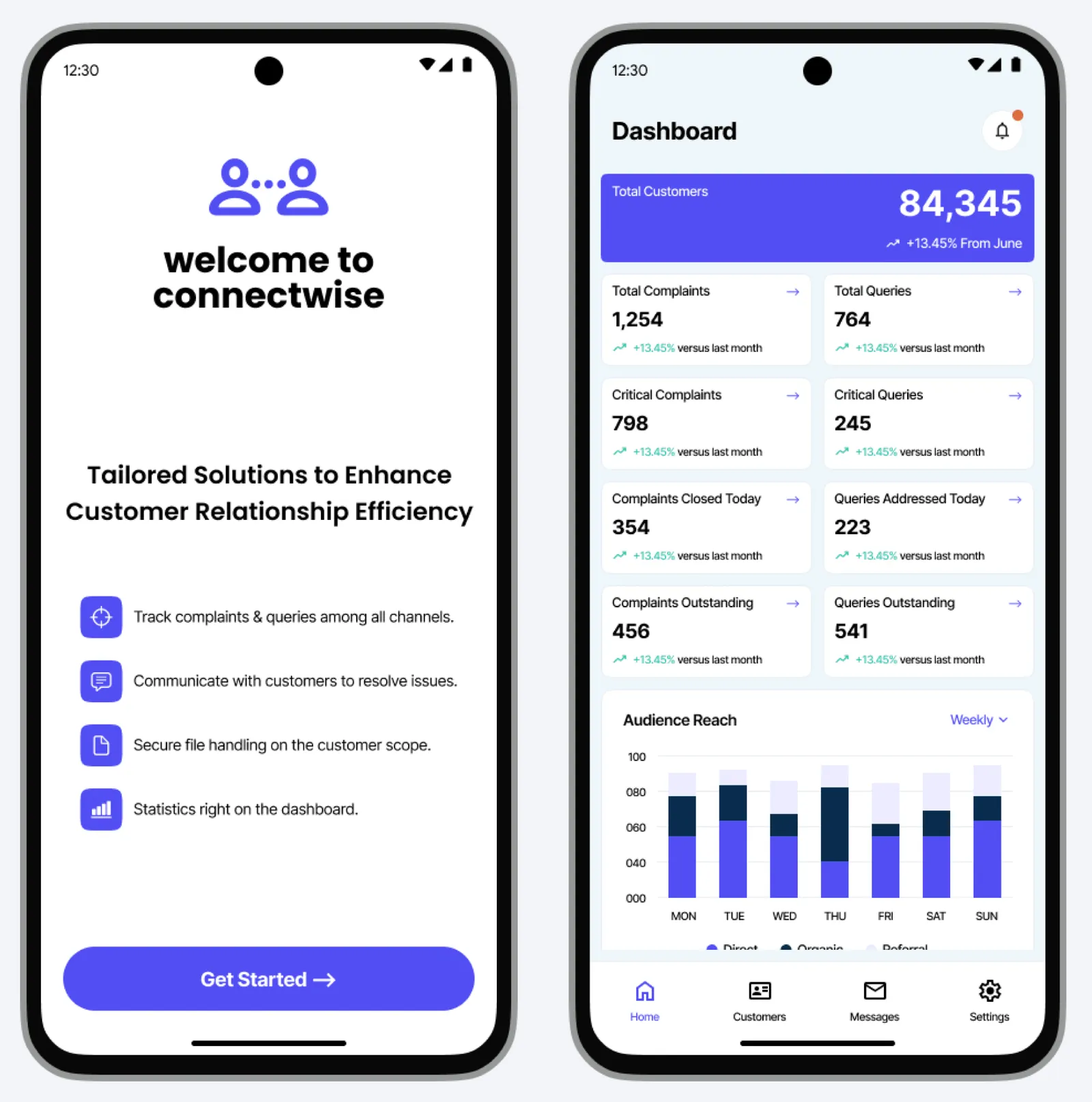
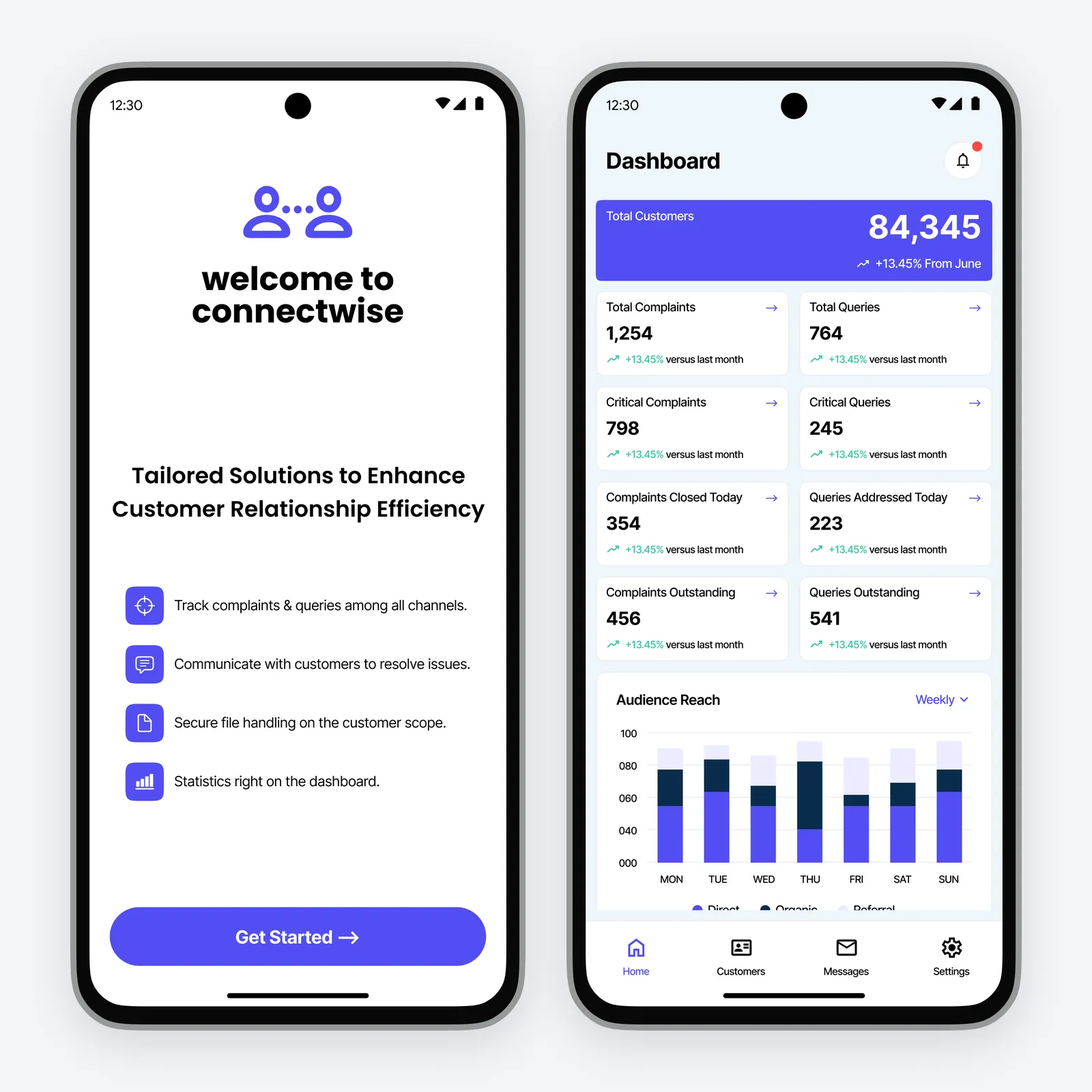
Use real Figma assets: CRM screens, PULSE case study, event designs
- CRM: clean screen exports replace board crops; copy rewritten from
  the file's brief, presentation and team details; chat, attachments
  and ticket history added
- New Blood Donation App (PULSE) case study built from its screens
  and presentation, with hero, board, share card and structure view
- Events: certificate and key visual from the portal file; flow and
  interactions updated from the event page design
- Learning: interactions updated from the components in the file

Claude-Session: https://claude.ai/code/session_011amfHfjPBXfEuBkbkXVmFM

diff --git a/src/data/case-studies/customer-relationship-management.ts b/src/data/case-studies/customer-relationship-management.ts
@@ -1,83 +1,86 @@
 import { board, cap, prototype, research, structure, wireframes, card, challenge, exhibit, flow, grid, highlights, highlightsSection, img, item, overview, palette, section, text, tree } from '../build';
 import type { CaseStudy } from '../types';
 
+// Sources: the project's Figma file (Readme, High Fidelity, Presentation pages).
 export const customerRelationshipManagement: CaseStudy = {
-  cover: img('crm-hero', 'Hero mockup: connectwise CRM app screens on a light canvas'),
+  cover: img('crm-hero', 'Hero mockup: connectwise CRM app screens'),
   sections: [
     overview({
-      role: 'Independent project: user flows, interaction design, visual design',
-      timeline: 'Passion project, high-fidelity Android prototype',
+      role: 'UI/UX design: wireframes, high-fidelity screens, asset library and a complete prototype',
+      team: ['Team Wireshark', 'Sai Rohit', 'Aman Agrawal', 'Shahid Ahamed', 'Kanishk Kumar'],
+      timeline: 'Team project built to a “Digital Box” brief set by industry mentors',
       overview: [
-        'connectwise is a mobile CRM that helps support teams track complaints and queries across channels, talk to customers and keep their files in one place.',
-        'I designed the Android app end to end: onboarding, a statistics dashboard, customer profiles, messaging and ticket history.',
-        'Every screen is built to help an agent decide what to handle next.',
+        'connectwise is a mobile CRM built around a Digital Box: one place that stores every customer communication, supports two-way conversations about complaints and queries, and lets colleagues upload and download documents securely for each customer.',
+        'With Team Wireshark, I designed the app end to end, from wireframes and high-fidelity screens to the asset library and a complete prototype.',
+        'Every screen helps a colleague see a customer’s full history and decide what to handle next.',
       ],
     }),
     highlightsSection(
-      highlights('Customer relationships on the go: track, communicate and resolve from one app.', {
-        exhibits: [prototype('crm'), { media: img('crm-row', 'Onboarding, dashboard, customer and messages screens'), caption: cap('0.1', 'Screens', 'Onboarding, dashboard, customer and messages') }],
+      highlights('Customer relationships on the go: insights, profiles, chat and secure files in one app.', {
+        exhibits: [prototype('crm'), { media: img('crm-row', 'Welcome, dashboard, customer profile and messages screens'), caption: cap('0.1', 'Screens', 'Welcome, dashboard, customer and messages') }],
       }),
     ),
-    section('context', 'Context', 'Support teams live in many inboxes.', [
-      text('One customer, many channels.', [
-        'Complaints and queries arrive by SMS, mail and chat apps. Without one view, agents repeat questions and critical issues wait in the queue.',
+    section('context', 'Context', 'Many channels, many logs.', [
+      text('What the brief asked for.', [
+        'Customers reach out through SMS, in-app notifications and email, depending on the products they hold, and each channel stores its logs differently.',
+        'The brief called for a Digital Box that keeps every document, communication, complaint and resolution together, with an audit log for each customer.',
       ]),
       tree(
         'connectwise',
         [
           { label: 'Home', items: ['Dashboard', 'Audience reach'] },
           { label: 'Customers', items: ['Customer list', 'Customer profile', 'Product transactions'] },
-          { label: 'Messages', items: ['Highly critical', 'Unresolved', 'Closed'] },
+          { label: 'Messages', items: ['Highly critical', 'Unresolved', 'Closed', 'Chat'] },
           { label: 'Records', items: ['Attachments', 'Ticket history', 'Customer settings'] },
         ],
         cap('1.0', 'Diagram', 'Information architecture'),
       ),
       research('crm'),
     ]),
-    section('the-problem', 'The Problem', 'Critical issues looked like routine ones.', [
+    section('the-problem', 'The Problem', 'Scattered data, slower support.', [
       text(
-        'Where support breaks down.',
-        ['Agents were busy, but not always busy with the right things.'],
+        'Problem statement.',
+        ['Current CRM systems lack centralised data access and streamlined communication across diverse products and channels. The result is inefficiency that ultimately hurts customer satisfaction.'],
         {
           list: [
-            item('database', 'Complaints arrive through many channels and get lost.'),
-            item('users', 'A customer’s history is not visible in one place.'),
-            item('target', 'Critical issues look the same as routine ones.'),
-            item('key', 'Files are shared over channels that are not secure.'),
+            item('database', 'Communications are spread across channels that each keep their own logs.'),
+            item('users', 'A customer’s documents, queries and complaints are not visible in one place.'),
+            item('target', 'Urgent and negative complaints are hard to spot and prioritise.'),
+            item('key', 'Documents need secure upload and download at the customer level.'),
           ],
         },
       ),
-      challenge('Help support teams see what matters most and resolve it without switching tools.'),
+      challenge('Give colleagues one view of every customer, so complaints are handled faster and communication stays simple across products.'),
       text('North Star design principles:', [], {
         cards: [
-          card('Severity first', 'Critical items rise to the top.', 'target'),
-          card('One customer, one view', 'Profile, messages, files and transactions together.', 'users'),
-          card('Numbers that drive action', 'Every metric links to work that can be done.', 'lightbulb'),
+          card('Insights at a glance', 'Key metrics on the dashboard, before any digging.', 'target'),
+          card('One customer, one view', 'Profile, documents, messages and transactions together.', 'users'),
+          card('Secure by default', 'Files stay within each customer’s scope.', 'key'),
         ],
       }),
     ]),
     section('user-flow', 'User Flow', 'From complaint to closure.', [
-      text('The resolution loop.', ['Every ticket follows the same path, so agents always know the next step.']),
-      flow(['Complaint arrives', 'Triage by severity', 'Open customer profile', 'Message and share files', 'Resolve and close'], cap('3.0', 'Diagram', 'Resolution loop')),
+      text('The resolution loop.', ['Every ticket follows the same path, so colleagues always know the next step.']),
+      flow(['Complaint arrives', 'Triage by severity', 'Open customer profile', 'Chat and share files', 'Resolve and close'], cap('3.0', 'Diagram', 'Resolution loop')),
       wireframes('crm'),
     ]),
     section('layout', 'Layout', 'A dashboard that shows the queue, not just totals.', [
       text('Complaints and queries, side by side.', [
-        'The dashboard pairs complaints and queries: total, critical, closed or addressed today, and outstanding, each with change versus last month, followed by weekly audience reach.',
+        'The dashboard pairs complaints and queries: total, critical, closed or addressed today, and outstanding, each compared with last month, followed by weekly audience reach.',
       ]),
-      structure('crm', 'Onboarding and dashboard screens', 'Onboarding and dashboard: structure and final. Drag to compare.'),
+      structure('crm', 'Welcome and dashboard screens', 'Welcome and dashboard: structure and final. Drag to compare.'),
     ]),
-    section('interactions', 'Interactions', 'Triage with a tap.', [
-      text('Filters and tags.', [
-        'Messages filter by Highly Critical, Unresolved, Closed or All, and each conversation shows its channel and type, such as SMS, Mail, Chat app, Query or Complaint.',
+    section('interactions', 'Interactions', 'Everything about a customer, one tap away.', [
+      text('Profiles and triage.', [
+        'Customer profiles bring together personal details, media, documents and links, queries and complaints, and product transactions.',
+        'Messages filter by Highly Critical, Unresolved, Closed or All, and each conversation shows its channel and type, such as SMS, Mail, Query or Complaint.',
       ]),
       exhibit(img('crm-b', 'Customer profile and messages screens'), cap('5.0', 'Screens', 'Customer profile and messages')),
-      grid([
-        card('Severity filters', 'Jump straight to highly critical items.', 'target'),
-        card('Channel tags', 'See where each message came from.', 'database'),
-        card('Customer profile', 'Contact details, files and transactions together.', 'users'),
-        card('Secure files', 'Documents stay within the customer’s scope.', 'key'),
+      text('Chat, files and history.', [
+        'Colleagues can talk one-on-one with a customer through integrated chat, and manage previous queries, tickets and files associated with each customer.',
       ]),
+      exhibit(img('crm-c', 'Customer list and chat screens'), cap('5.1', 'Screens', 'Customers and integrated chat')),
+      exhibit(img('crm-d', 'Attachments and ticket history screens'), cap('5.2', 'Screens', 'Attachments and ticket history')),
     ]),
     section('visual-design', 'Visual Design', 'Clear, calm and indigo.', [
       text('Colour for focus.', [
@@ -96,14 +99,23 @@ export const customerRelationshipManagement: CaseStudy = {
     section('final-designs', 'Final Designs', 'The complete screen set.', [
       text('Built for the whole queue.', ['The final set covers onboarding, dashboard, customers, profiles, conversations, attachments and ticket history.']),
       exhibit(board('crm', 'Full connectwise screen set'), cap('7.0', 'Animated view', 'Full screen set')),
+      text('Proposed tech stack:', [], {
+        cards: [
+          card('ETL', 'Data integration across customer channels.', 'database'),
+          card('Firebase', 'Data storage.', 'check-circle'),
+          card('Open-source encryption', 'Secure handling of customer documents.', 'key'),
+          card('QlikView ML', 'Analytics on complaints and queries.', 'lightbulb'),
+          card('Flutter', 'Wrapping the app for mobile.', 'sparkle'),
+        ],
+      }),
     ]),
     section('retrospective', 'Retrospective', 'Designing for busy people.', [
       text('Looking back.', [
-        'Support agents work under pressure. The best decisions in connectwise were the ones that removed a decision: severity filters, clear tags and one profile for each customer.',
+        'Support teams work under pressure. The strongest decisions in connectwise were the ones that removed a decision: severity filters, clear channel tags and one profile for each customer.',
       ]),
       text('Project Takeaways:', [], {
         cards: [
-          card('Prioritise for the user', 'Severity filters do the sorting for agents.', 'target'),
+          card('Start from the brief', 'A clear problem statement kept the scope focused.', 'check-circle'),
           card('Context saves time', 'A full profile avoids repeated questions.', 'users'),
           card('Mobile can be dense', 'Clear grouping makes data-heavy screens usable.', 'sparkle'),
           card('Trust needs security', 'Secure file handling is part of the experience.', 'key'),

diff --git a/src/data/case-studies/blood-donation-app.ts b/src/data/case-studies/blood-donation-app.ts
@@ -1,0 +1,129 @@
+import { board, cap, prototype, research, structure, wireframes, card, challenge, exhibit, flow, grid, highlights, highlightsSection, img, item, overview, palette, section, text, tree } from '../build';
+import type { CaseStudy } from '../types';
+
+// Sources: the project's Figma files (High Fidelity and Presentation pages).
+export const bloodDonationApp: CaseStudy = {
+  cover: img('pulse-hero', 'Hero mockup: PULSE blood donation app screens'),
+  sections: [
+    overview({
+      role: 'UI/UX design: user flows, screening experience, high-fidelity screens',
+      team: ['Sai Rohit', 'Aman Agrawal', 'Faculty guide: Prof. G. Manoj Kumar'],
+      timeline: 'Academic project at SRM Institute of Science and Technology',
+      overview: [
+        'PULSE is a mobile app that connects blood donors with recipients, tackling blood shortages and logistical hurdles by streamlining the process, protecting donor privacy and raising awareness.',
+        'I designed the experience from onboarding and donor screening to placing a blood request, finding nearby blood banks and tracking requests.',
+        'The aim: timely access to life-saving blood, with every step designed for moments when time matters.',
+      ],
+    }),
+    highlightsSection(
+      highlights('Your lifeline to efficient blood donation: request, find and donate from one app.', {
+        exhibits: [prototype('pulse'), { media: img('pulse-row', 'Splash, home, request and blood bank screens'), caption: cap('0.1', 'Screens', 'Splash, home, request and nearby blood banks') }],
+      }),
+    ),
+    section('context', 'Context', 'When blood is needed, every minute counts.', [
+      text('Bridging donors and recipients.', [
+        'Finding a matching donor or an open blood bank usually means phone calls and word of mouth. PULSE brings donors, recipients, blood banks and campaigns into one place.',
+      ]),
+      tree(
+        'PULSE',
+        [
+          { label: 'Onboarding', items: ['Create account', 'Verify', 'Screening questions'] },
+          { label: 'Donate', items: ['Find blood banks', 'Open requests', 'Campaigns', 'Guide'] },
+          { label: 'Request', items: ['Blood group and units', 'Location', 'Schedule or request now'] },
+          { label: 'Logs and profile', items: ['Previous requests', 'Screening profile'] },
+        ],
+        cap('1.0', 'Diagram', 'Information architecture'),
+      ),
+      research('pulse'),
+    ]),
+    section('the-problem', 'The Problem', 'Shortages, logistics and trust.', [
+      text(
+        'Problem statement.',
+        ['Blood shortages are made worse by slow coordination. Recipients need a match quickly, donors need to know whether they are eligible, and both need to trust that their details are safe.'],
+        {
+          list: [
+            item('clock', 'Urgent requests rely on calls and messages that reach too few people.'),
+            item('target', 'Donors rarely know which blood banks or drives are nearby and open.'),
+            item('lightbulb', 'Eligibility rules are unclear, so willing donors hesitate.'),
+            item('key', 'Personal and medical details must stay private.'),
+          ],
+        },
+      ),
+      challenge('Connect donors and recipients securely, and make every request fast enough for an emergency.'),
+      text('North Star design principles:', [], {
+        cards: [
+          card('Emergency first', 'An emergency path is available from the very first screen.', 'clock'),
+          card('Clear eligibility', 'Short screening questions and plain-language answers.', 'check-circle'),
+          card('Private by design', 'Donors and recipients connect securely.', 'key'),
+        ],
+      }),
+    ]),
+    section('user-flow', 'User Flow', 'From request to response.', [
+      text('Placing a request.', [
+        'A recipient picks the blood group and units needed, confirms the location, and either schedules a request with patient and venue details or requests immediately. Donors are notified, and the recipient hears back when someone accepts.',
+      ]),
+      flow(['Blood group and units', 'Confirm location', 'Schedule or request now', 'Patient and venue details', 'Request placed'], cap('3.0', 'Diagram', 'Request flow')),
+      text('Becoming a donor.', ['New donors create an account, verify it, and answer three short screening questions that build their screening profile.']),
+      flow(['Create account', 'Verify', 'Screening questions', 'Screening profile'], cap('3.1', 'Diagram', 'Donor onboarding')),
+      exhibit(img('pulse-d', 'Create account, details and verification screens'), cap('3.2', 'Screens', 'Onboarding')),
+      wireframes('pulse'),
+    ]),
+    section('layout', 'Layout', 'A home screen built around six actions.', [
+      text('Everything a donor needs, in one grid.', [
+        'Home greets the donor and offers six clear actions: find blood banks, open requests, eligibility, how much to donate, campaigns and a guide. Request, Logs and Profile sit in the tab bar.',
+      ]),
+      structure('pulse', 'Home and request screens', 'Home and request: structure and final. Drag to compare.'),
+    ]),
+    section('interactions', 'Interactions', 'Reassurance at every step.', [
+      text('Confirmation and guidance.', [
+        'After a request, a clear confirmation explains what happens next and links to previous requests and nearby clinics. Eligibility answers are written in plain language, based on the donor’s screening results.',
+      ]),
+      exhibit(img('pulse-b', 'Schedule request and request placed screens'), cap('5.0', 'Screens', 'Schedule a request and confirmation')),
+      exhibit(img('pulse-c', 'Eligibility information and donor list screens'), cap('5.1', 'Screens', 'Eligibility and donors nearby')),
+      grid([
+        card('Nearby blood banks', 'Centres listed with distance and opening status.', 'target'),
+        card('Two ways to request', 'Schedule ahead or request immediately.', 'clock'),
+        card('Urgent notifications', 'Donors hear about urgent needs in their area.', 'lightbulb'),
+        card('Screening profile', 'Eligibility stays up to date on the profile.', 'check-circle'),
+      ]),
+    ]),
+    section('visual-design', 'Visual Design', 'One colour, one purpose.', [
+      text('Red, used with care.', [
+        'A bold red carries the brand and every primary action, set against white surfaces and soft pink fields so forms stay calm and readable.',
+      ]),
+      palette(
+        [
+          { name: 'Pulse red', hex: '#F52646' },
+          { name: 'Soft red', hex: '#F7516B' },
+          { name: 'Surface', hex: '#FFFFFF' },
+          { name: 'Ink', hex: '#000000' },
+        ],
+        cap('6.0', 'Palette', 'Colours sampled from the final screens'),
+      ),
+    ]),
+    section('final-designs', 'Final Designs', 'The complete screen set.', [
+      text('From splash to request.', ['The final set covers the splash screen, onboarding, screening, home, requests, confirmation, blood banks and donors.']),
+      exhibit(board('pulse', 'Full PULSE screen set'), cap('7.0', 'Animated view', 'Full screen set')),
+      text('Proposed tech stack:', [], {
+        cards: [
+          card('ETL', 'Data integration.', 'database'),
+          card('Firebase', 'Data storage.', 'check-circle'),
+          card('Flutter', 'Wrapping the app for mobile.', 'sparkle'),
+        ],
+      }),
+    ]),
+    section('retrospective', 'Retrospective', 'Designing for urgent moments.', [
+      text('Looking back.', [
+        'PULSE taught me to design for people under stress: fewer choices, clearer words and constant reassurance about what happens next.',
+      ]),
+      text('Project Takeaways:', [], {
+        cards: [
+          card('Urgency shapes flow', 'An immediate path matters as much as a scheduled one.', 'clock'),
+          card('Explain eligibility', 'Plain-language answers turn hesitation into action.', 'lightbulb'),
+          card('Reassure after action', 'Confirmations should say what happens next.', 'check-circle'),
+          card('Privacy builds trust', 'Secure connections encourage people to take part.', 'key'),
+        ],
+      }),
+    ]),
+  ],
+};

diff --git a/src/data/case-studies/events-booking-portal.ts b/src/data/case-studies/events-booking-portal.ts
@@ -57,8 +57,10 @@ export const eventsBookingPortal: CaseStudy = {
       }),
     ]),
     section('user-flow', 'User Flow', 'From browsing to booked.', [
-      text('Short and predictable.', ['A visitor lands on the chapter page, narrows events with filters and registers directly from the event card.']),
-      flow(['Chapter page', 'Filter by date, mode, category', 'Event card', 'Register', 'Dashboard'], cap('3.0', 'Diagram', 'Booking flow')),
+      text('Short and predictable.', [
+        'A visitor signs in with Google, narrows events with filters and registers from the event card or the event page. After the event, attendees receive a certificate they can download and share.',
+      ]),
+      flow(['Sign in with Google', 'Filter events', 'Event page', 'Register', 'Certificate'], cap('3.0', 'Diagram', 'Booking flow')),
       wireframes('events'),
     ]),
     section('layout', 'Layout', 'Filters on the left, events on the right.', [
@@ -68,12 +70,16 @@ export const eventsBookingPortal: CaseStudy = {
       structure('events', 'Filters and upcoming event cards', 'Filters and upcoming events: structure and final. Drag to compare.', 'b'),
     ]),
     section('interactions', 'Interactions', 'Details that save a click.', [
-      text('Built for quick decisions.', ['Tags and toggles answer the common questions before a visitor opens an event.']),
+      text('Everything about an event, on one page.', [
+        'Each event page carries the description, topic tags, when and where (with a link to Google Maps), whether it is offline or online, the organising team, sponsors and discussions, with Register Now always in reach.',
+        'Once the event is over, attendees can download their certificate or share their accomplishment straight from the portal.',
+      ]),
+      exhibit(img('events-certificate', 'Certificate of appreciation for Code with Node 2.0'), cap('5.0', 'Design', 'Certificate issued through the portal')),
       grid([
         card('Calendar filter', 'Pick a date to see what is on.', 'clock'),
         card('Mode tags', 'Offline or online at a glance.', 'target'),
         card('Tech stack tags', 'Know what you will learn before registering.', 'lightbulb'),
-        card('Grid and list views', 'Switch layouts to suit the screen.', 'cursor-click'),
+        card('Shareable certificates', 'Download or share a certificate after attending.', 'check-circle'),
       ]),
     ]),
     section('visual-design', 'Visual Design', 'A dark canvas with a Google spark.', [
@@ -89,6 +95,7 @@ export const eventsBookingPortal: CaseStudy = {
         ],
         cap('6.0', 'Palette', 'Colours sampled from the final screens'),
       ),
+      exhibit(img('events-banner', 'Code with Node 2.0 event key visual'), cap('6.1', 'Design', 'Event key visual for Code with Node 2.0')),
     ]),
     section('final-designs', 'Final Designs', 'The chapter page, in full.', [
       text('One page for every event.', ['Header, about, filters, upcoming events and previous events come together in one responsive page.']),

diff --git a/src/data/projects.ts b/src/data/projects.ts
@@ -8,6 +8,7 @@ import { recycleAndDonateApp } from './case-studies/recycle-and-donate-app';
 import { placementManagementSystem } from './case-studies/placement-management-system';
 import { customerRelationshipManagement } from './case-studies/customer-relationship-management';
 import { eventsBookingPortal } from './case-studies/events-booking-portal';
+import { bloodDonationApp } from './case-studies/blood-donation-app';
 
 /*
  * Projects, in the order they appear on the home page.
@@ -91,6 +92,15 @@ export const projects: Project[] = [
     thumbnail: img('events-cover', 'BookMyEvent portal'),
     figma: 'https://www.figma.com/design/XUPnWTdd9FBZw5o9qZndLg/High-Fidelity-Design?node-id=0-1',
     caseStudy: eventsBookingPortal,
+  },
+  {
+    slug: 'blood-donation-app',
+    title: 'Blood Donation App',
+    role: 'Academic Project',
+    org: 'SRM IST',
+    platform: 'mobile',
+    thumbnail: img('pulse-cover', 'PULSE blood donation app screens'),
+    caseStudy: bloodDonationApp,
   },
 ];
 

diff --git a/src/data/case-studies/learning-management-system.ts b/src/data/case-studies/learning-management-system.ts
@@ -84,8 +84,10 @@ export const learningManagementSystem: CaseStudy = {
       grid([
         card('Bulk select', 'Checkboxes on every row for batch changes.', 'check-circle'),
         card('Quick search', 'A shortcut-driven search for any item.', 'target'),
-        card('Breadcrumbs', 'Always know where you are in the console.', 'cursor-click'),
-        card('Row actions', 'Edit and manage items without leaving the table.', 'sparkle'),
+        card('Create menu', 'Start a course, chapter or topic from one Create button.', 'cursor-click'),
+        card('Publish confirmation', 'A clear prompt before a course goes live.', 'sparkle'),
+        card('Approval alerts', 'Authors see when a request is sent for approval.', 'lightbulb'),
+        card('Sign-in states', 'Google and LinkedIn sign-in, with clear error messages.', 'key'),
       ]),
     ]),
     section('visual-design', 'Visual Design', 'Depth and translucency on a dark canvas.', [

diff --git a/docs/IMAGES.md b/docs/IMAGES.md
@@ -16,6 +16,7 @@ Project keys used in file names:
 | Placement Management System | `placement` |
 | Customer Relationship Management | `crm` |
 | Events' Booking Portal | `events` |
+| Blood Donation App (PULSE) | `pulse` |
 
 ## 1. Optional, only you have these (they appear automatically once pushed)
 
@@ -51,11 +52,16 @@ These work today but are crops of the composite boards. Clean Figma frame export
 | `placement-a` | Highlights | Overview stats + Company spotlight | About 3200 x 1560 |
 | `placement-b` | Layout (compare) | Ongoing applications | About 3200 x 1740 |
 | `placement-c` | Interactions | Recommended roles + Preparation tips | Tall right rail, about 1800 x 4280 |
-| `crm-row` | Highlights | Welcome, Dashboard, Customer, Messages | 4 frames side by side, about 3200 x 1620 |
-| `crm-a` | Layout (compare) | Welcome + Dashboard | 2 frames side by side, about 3200 x 3230 |
-| `crm-b` | Interactions | Customer + Messages | 2 frames side by side, about 3200 x 3230 |
 | `events-a` | Highlights | Chapter header | About 3200 x 960 |
 | `events-b` | Layout (compare) | Filters + Upcoming events | About 3200 x 2150 |
+
+## Already done from your .fig files
+
+| Files | Source |
+| --- | --- |
+| `crm-row`, `crm-a`, `crm-b`, `crm-c`, `crm-d` | Clean screen exports from Customer Relationship Management.fig |
+| `pulse-*` (cover, board, hero, row, a, b, c, d) | Screens from Blood Donation.fig |
+| `events-banner`, `events-certificate` | Designs from events.fig |
 
 ## 3. Optional upgrades (already good, replace only if you want to)
 
